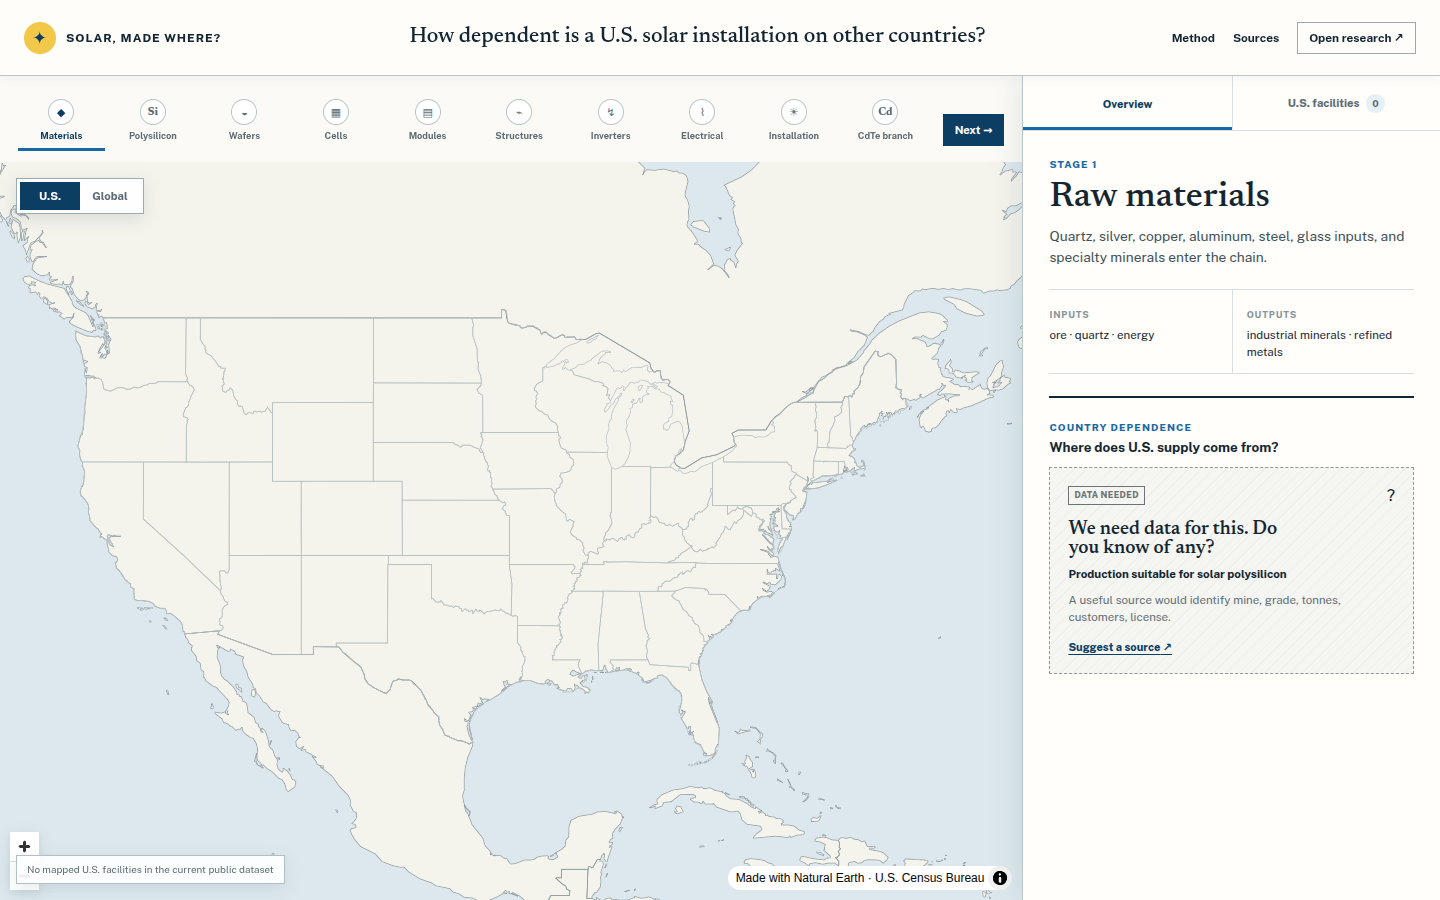
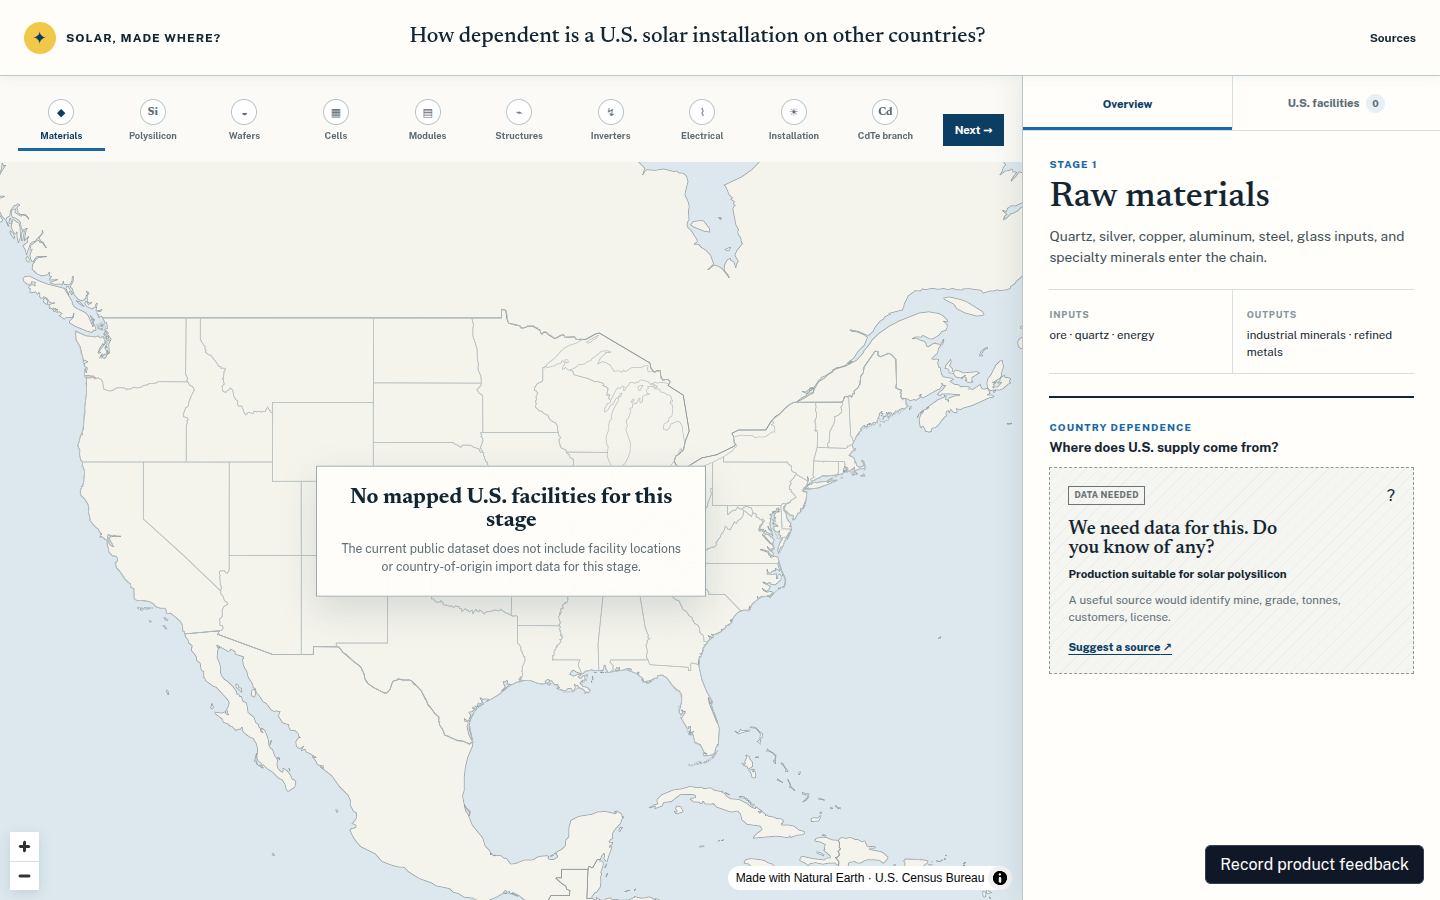
fix: focus map on available US data

diff --git a/src/explorer/SupplyMap.tsx b/src/explorer/SupplyMap.tsx
@@ -16,7 +16,6 @@ import {
   resolveLabelCollisions,
   wrapProjectedX,
 } from "../lib/mapProjection";
-import { MapControls } from "./MapControls";
 import { MapLegend } from "./MapLegend";
 
 maplibregl.setWorkerUrl(maplibreWorkerUrl);
@@ -71,8 +70,6 @@ interface Props {
   supplyMix: ResolvedSupplyMix | null;
   selectedCountryCode: string | null;
   selectedFacilityId: string | null;
-  geographyView: "us" | "global";
-  onGeographyChange: (view: "us" | "global") => void;
   onSelectCountry: (code: string) => void;
   onSelectFacility: (id: string) => void;
 }
@@ -155,8 +152,6 @@ export function SupplyMap({
   supplyMix,
   selectedCountryCode,
   selectedFacilityId,
-  geographyView,
-  onGeographyChange,
   onSelectCountry,
   onSelectFacility,
 }: Props) {
@@ -285,16 +280,6 @@ export function SupplyMap({
 
   useEffect(() => {
     const map = mapRef.current;
-    if (!map) return;
-    if (geographyView === "global") {
-      map.flyTo({ center: [0, 22], zoom: 1.25, essential: false });
-    } else {
-      map.fitBounds(US_BOUNDS, { padding: 28, duration: 500 });
-    }
-  }, [geographyView]);
-
-  useEffect(() => {
-    const map = mapRef.current;
     if (!map || !supplyMix) {
       setProjectedFlows([]);
       return;
@@ -347,8 +332,20 @@ export function SupplyMap({
   return (
     <section className="supply-map" role="region" aria-label="Solar supply map">
       <div ref={containerRef} className="supply-map__canvas" />
-      <MapControls value={geographyView} onChange={onGeographyChange} />
       <MapLegend facilities={facilities} />
+      {!facilities.length ? (
+        <div
+          className="supply-map__empty"
+          role="status"
+          aria-label="Map data availability"
+        >
+          <strong>No mapped U.S. facilities for this stage</strong>
+          <p>
+            The current public dataset does not include facility locations or
+            country-of-origin import data for this stage.
+          </p>
+        </div>
+      ) : null}
       {mapUnavailable ? (
         <div className="supply-map__fallback">
           <strong>Interactive map unavailable</strong>

diff --git a/src/explorer/SupplyMap.test.tsx b/src/explorer/SupplyMap.test.tsx
@@ -15,8 +15,6 @@ it("keeps facilities selectable when WebGL is unavailable", async () => {
       supplyMix={null}
       selectedCountryCode={null}
       selectedFacilityId={null}
-      geographyView="us"
-      onGeographyChange={() => undefined}
       onSelectCountry={() => undefined}
       onSelectFacility={onSelectFacility}
     />,
@@ -30,9 +28,7 @@ it("keeps facilities selectable when WebGL is unavailable", async () => {
   expect(onSelectFacility).toHaveBeenCalledWith("factory-one");
 });
 
-it("changes geography using labeled map controls", async () => {
-  const user = userEvent.setup();
-  const onGeographyChange = vi.fn();
+it("keeps the map focused on the U.S. without geography controls", () => {
   vi.spyOn(HTMLCanvasElement.prototype, "getContext").mockReturnValue(null);
   render(
     <SupplyMap
@@ -40,12 +36,27 @@ it("changes geography using labeled map controls", async () => {
       supplyMix={null}
       selectedCountryCode={null}
       selectedFacilityId={null}
-      geographyView="us"
-      onGeographyChange={onGeographyChange}
       onSelectCountry={() => undefined}
       onSelectFacility={() => undefined}
     />,
   );
-  await user.click(screen.getByRole("button", { name: "Global" }));
-  expect(onGeographyChange).toHaveBeenCalledWith("global");
+  expect(screen.queryByRole("group", { name: /map geography/i })).toBeNull();
+});
+
+it("centers missing facility and import-origin context over the map", () => {
+  vi.spyOn(HTMLCanvasElement.prototype, "getContext").mockReturnValue(null);
+  render(
+    <SupplyMap
+      facilities={[]}
+      supplyMix={null}
+      selectedCountryCode={null}
+      selectedFacilityId={null}
+      onSelectCountry={() => undefined}
+      onSelectFacility={() => undefined}
+    />,
+  );
+
+  const status = screen.getByRole("status", { name: /map data availability/i });
+  expect(status).toHaveTextContent(/no mapped U\.S\. facilities/i);
+  expect(status).toHaveTextContent(/country-of-origin import data/i);
 });

diff --git a/e2e/map-explorer.spec.ts b/e2e/map-explorer.spec.ts
@@ -55,17 +55,35 @@ async function waitForExplorer(page: Page) {
         ),
       )
       .toBeGreaterThan(0);
+    await expect
+      .poll(() =>
+        page.evaluate(() => {
+          const bounds = (
+            window as unknown as {
+              __solarMap: {
+                getBounds(): { getWest(): number; getEast(): number };
+              };
+            }
+          ).__solarMap.getBounds();
+          return bounds.getWest() <= -124 && bounds.getEast() >= -67;
+        }),
+      )
+      .toBe(true);
   }
 }
 
 test.describe("desktop explorer", () => {
   test.skip(({ isMobile }) => Boolean(isMobile));
 
-  test("captures overview, facilities, facility detail, and global geography", async ({
+  test("captures the U.S.-focused overview, facilities, and facility detail", async ({
     page,
   }) => {
     await page.goto("/");
     await waitForExplorer(page);
+    await expect(
+      page.getByRole("status", { name: "Map data availability" }),
+    ).toContainText("country-of-origin import data");
+    await expect(page.getByRole("button", { name: "Global" })).toHaveCount(0);
     await page.screenshot({
       path: resolve(screenshotDir, "desktop-overview.png"),
       fullPage: true,
@@ -90,13 +108,6 @@ test.describe("desktop explorer", () => {
     ).toBeVisible();
     await page.screenshot({
       path: resolve(screenshotDir, "desktop-facility-detail.png"),
-      fullPage: true,
-    });
-
-    await page.getByRole("button", { name: "Global" }).click();
-    await page.waitForTimeout(600);
-    await page.screenshot({
-      path: resolve(screenshotDir, "desktop-global.png"),
       fullPage: true,
     });
   });

diff --git a/src/explorer/state.ts b/src/explorer/state.ts
@@ -3,7 +3,6 @@ export type ExplorerSelection =
 
 export interface ExplorerState {
   activeStageId: string;
-  geographyView: "us" | "global";
   generalTab: "overview" | "facilities";
   selection: ExplorerSelection;
   navigatorExpanded: boolean;
@@ -17,7 +16,6 @@ export type ExplorerAction =
       validFacilityIds: string[];
       validCountryCodes: string[];
     }
-  | { type: "set-geography"; view: ExplorerState["geographyView"] }
   | { type: "set-tab"; tab: ExplorerState["generalTab"] }
   | { type: "select-facility"; id: string }
   | { type: "select-country"; code: string }
@@ -28,7 +26,6 @@ export type ExplorerAction =
 export function createExplorerState(activeStageId: string): ExplorerState {
   return {
     activeStageId,
-    geographyView: "us",
     generalTab: "overview",
     selection: null,
     navigatorExpanded: false,
@@ -54,8 +51,6 @@ export function explorerReducer(
             : null;
       return { ...state, activeStageId: action.stageId, selection };
     }
-    case "set-geography":
-      return { ...state, geographyView: action.view };
     case "set-tab":
       return { ...state, generalTab: action.tab, selection: null };
     case "select-facility":

diff --git a/src/styles.css b/src/styles.css
@@ -408,31 +408,32 @@ summary:focus-visible {
   height: 100%;
 }
 
-.map-controls {
+.supply-map__empty {
   position: absolute;
   z-index: 5;
-  top: 16px;
-  left: 16px;
-  display: flex;
-  padding: 3px;
+  top: 50%;
+  left: 50%;
+  width: min(390px, calc(100% - 48px));
+  padding: 20px 22px;
+  transform: translate(-50%, -50%);
   border: 1px solid #9bacb1;
-  background: rgba(255, 255, 255, 0.92);
-  box-shadow: 0 5px 16px rgb(29 58 70 / 12%);
+  background: rgba(255, 254, 251, 0.95);
+  box-shadow: 0 14px 34px rgb(35 63 75 / 14%);
+  text-align: center;
 }
 
-.map-controls button {
-  min-width: 60px;
-  padding: 7px 11px;
-  background: transparent;
+.supply-map__empty strong {
+  display: block;
+  font-family: "Newsreader Variable", serif;
+  font-size: 1.35rem;
+  line-height: 1.05;
+}
+
+.supply-map__empty p {
+  margin: 8px 0 0;
   color: var(--muted);
-  font-size: 0.7rem;
-  font-weight: 750;
-  cursor: pointer;
-}
-
-.map-controls button[aria-pressed="true"] {
-  background: var(--blue-dark);
-  color: white;
+  font-size: 0.76rem;
+  line-height: 1.45;
 }
 
 .map-legend {

diff --git a/src/explorer/state.test.ts b/src/explorer/state.test.ts
@@ -2,10 +2,9 @@ import { describe, expect, it } from "vitest";
 import { createExplorerState, explorerReducer } from "./state";
 
 describe("explorerReducer", () => {
-  it("changes stage without changing geography or the general tab", () => {
+  it("changes stage without changing the general tab", () => {
     const state = {
       ...createExplorerState("raw-materials"),
-      geographyView: "global" as const,
       generalTab: "facilities" as const,
     };
     const next = explorerReducer(state, {
@@ -16,7 +15,6 @@ describe("explorerReducer", () => {
     });
     expect(next).toMatchObject({
       activeStageId: "modules",
-      geographyView: "global",
       generalTab: "facilities",
     });
   });

diff --git a/src/explorer/ExplorerShell.tsx b/src/explorer/ExplorerShell.tsx
@@ -110,10 +110,6 @@ export function ExplorerShell({ data }: { data: SiteData }) {
             supplyMix={supplyMix}
             selectedCountryCode={selectedCountryCode}
             selectedFacilityId={selectedFacilityId}
-            geographyView={state.geographyView}
-            onGeographyChange={(view) =>
-              dispatch({ type: "set-geography", view })
-            }
             onSelectCountry={(code) =>
               dispatch({ type: "select-country", code })
             }

diff --git a/src/explorer/MapLegend.tsx b/src/explorer/MapLegend.tsx
@@ -3,11 +3,7 @@ import { comparableFacilityUnit } from "../lib/facilityMeasures";
 
 export function MapLegend({ facilities }: { facilities: ResolvedFacility[] }) {
   if (!facilities.length) {
-    return (
-      <div className="map-legend" aria-label="Map legend">
-        No mapped U.S. facilities in the current public dataset
-      </div>
-    );
+    return null;
   }
   const measured = facilities.filter(
     (facility) => facility.measureValue !== null,

diff --git a/src/explorer/MapLegend.test.tsx b/src/explorer/MapLegend.test.tsx
@@ -4,6 +4,6 @@ import { MapLegend } from "./MapLegend";
 
 it("does not imply a facility layer exists when the stage has no facilities", () => {
   render(<MapLegend facilities={[]} />);
-  expect(screen.getByText(/no mapped u.s. facilities/i)).toBeVisible();
+  expect(screen.queryByLabelText(/map legend/i)).toBeNull();
   expect(screen.queryByText(/active u.s. manufacturing facility/i)).toBeNull();
 });
